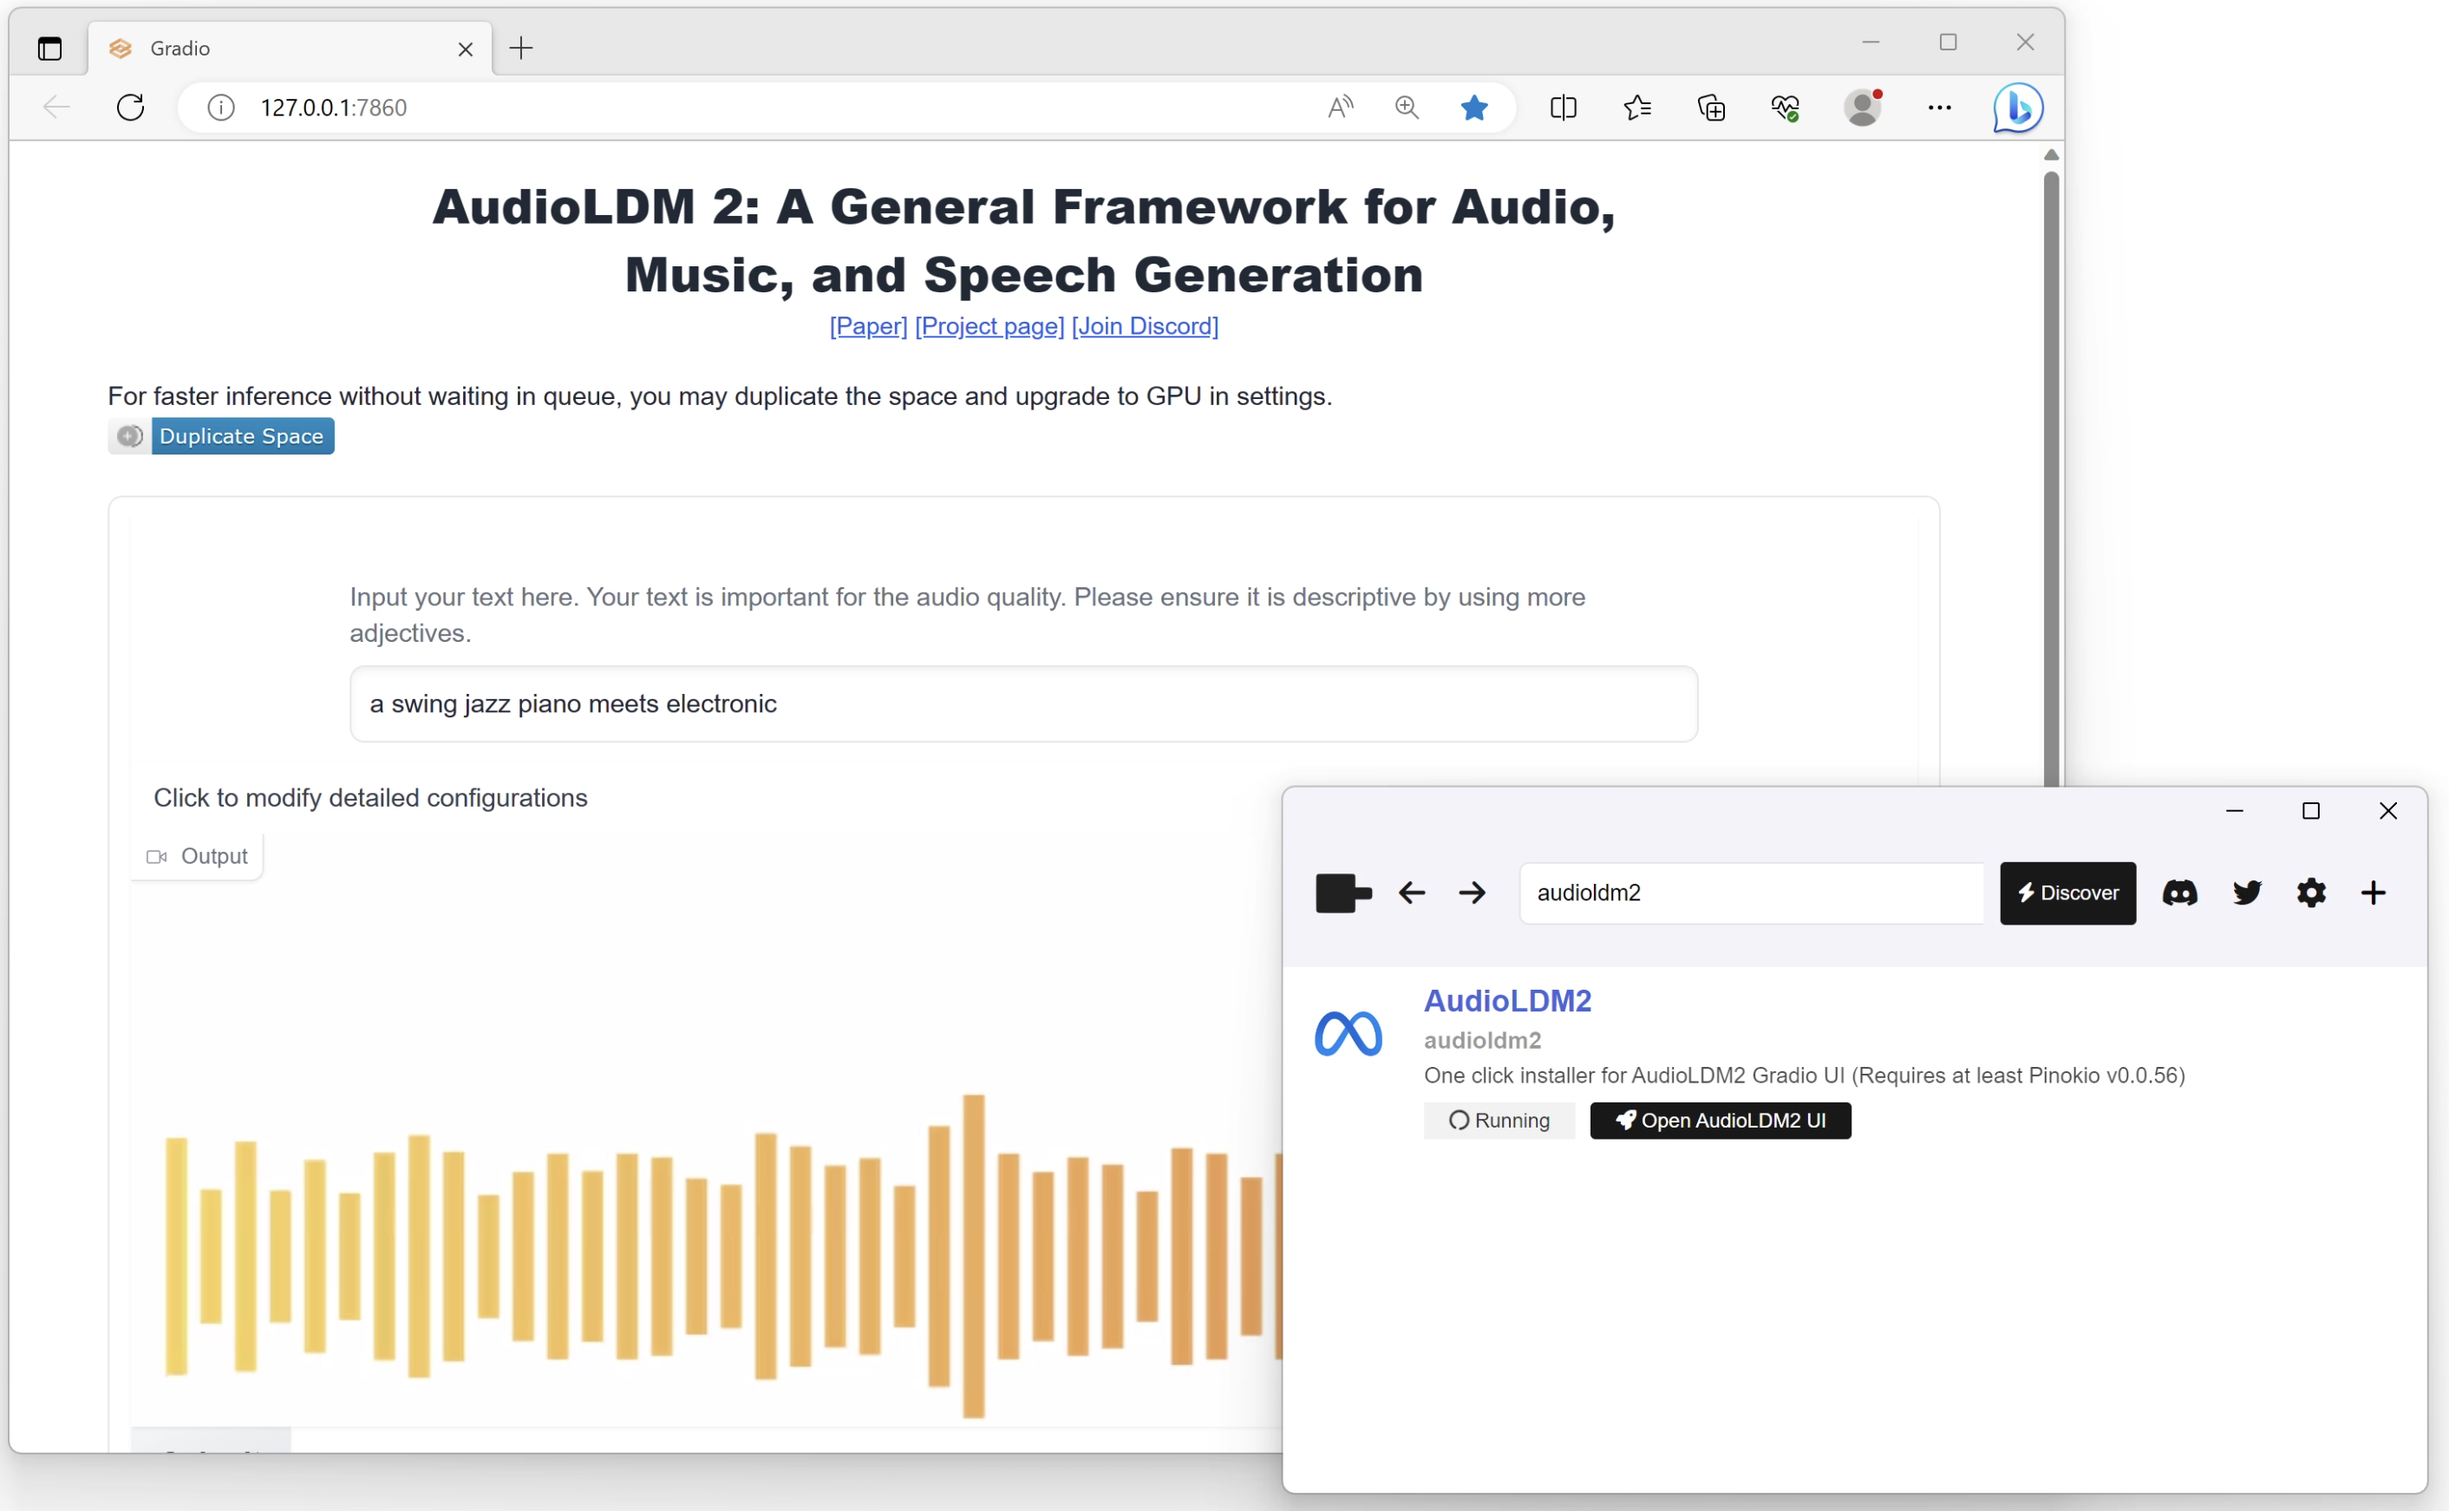
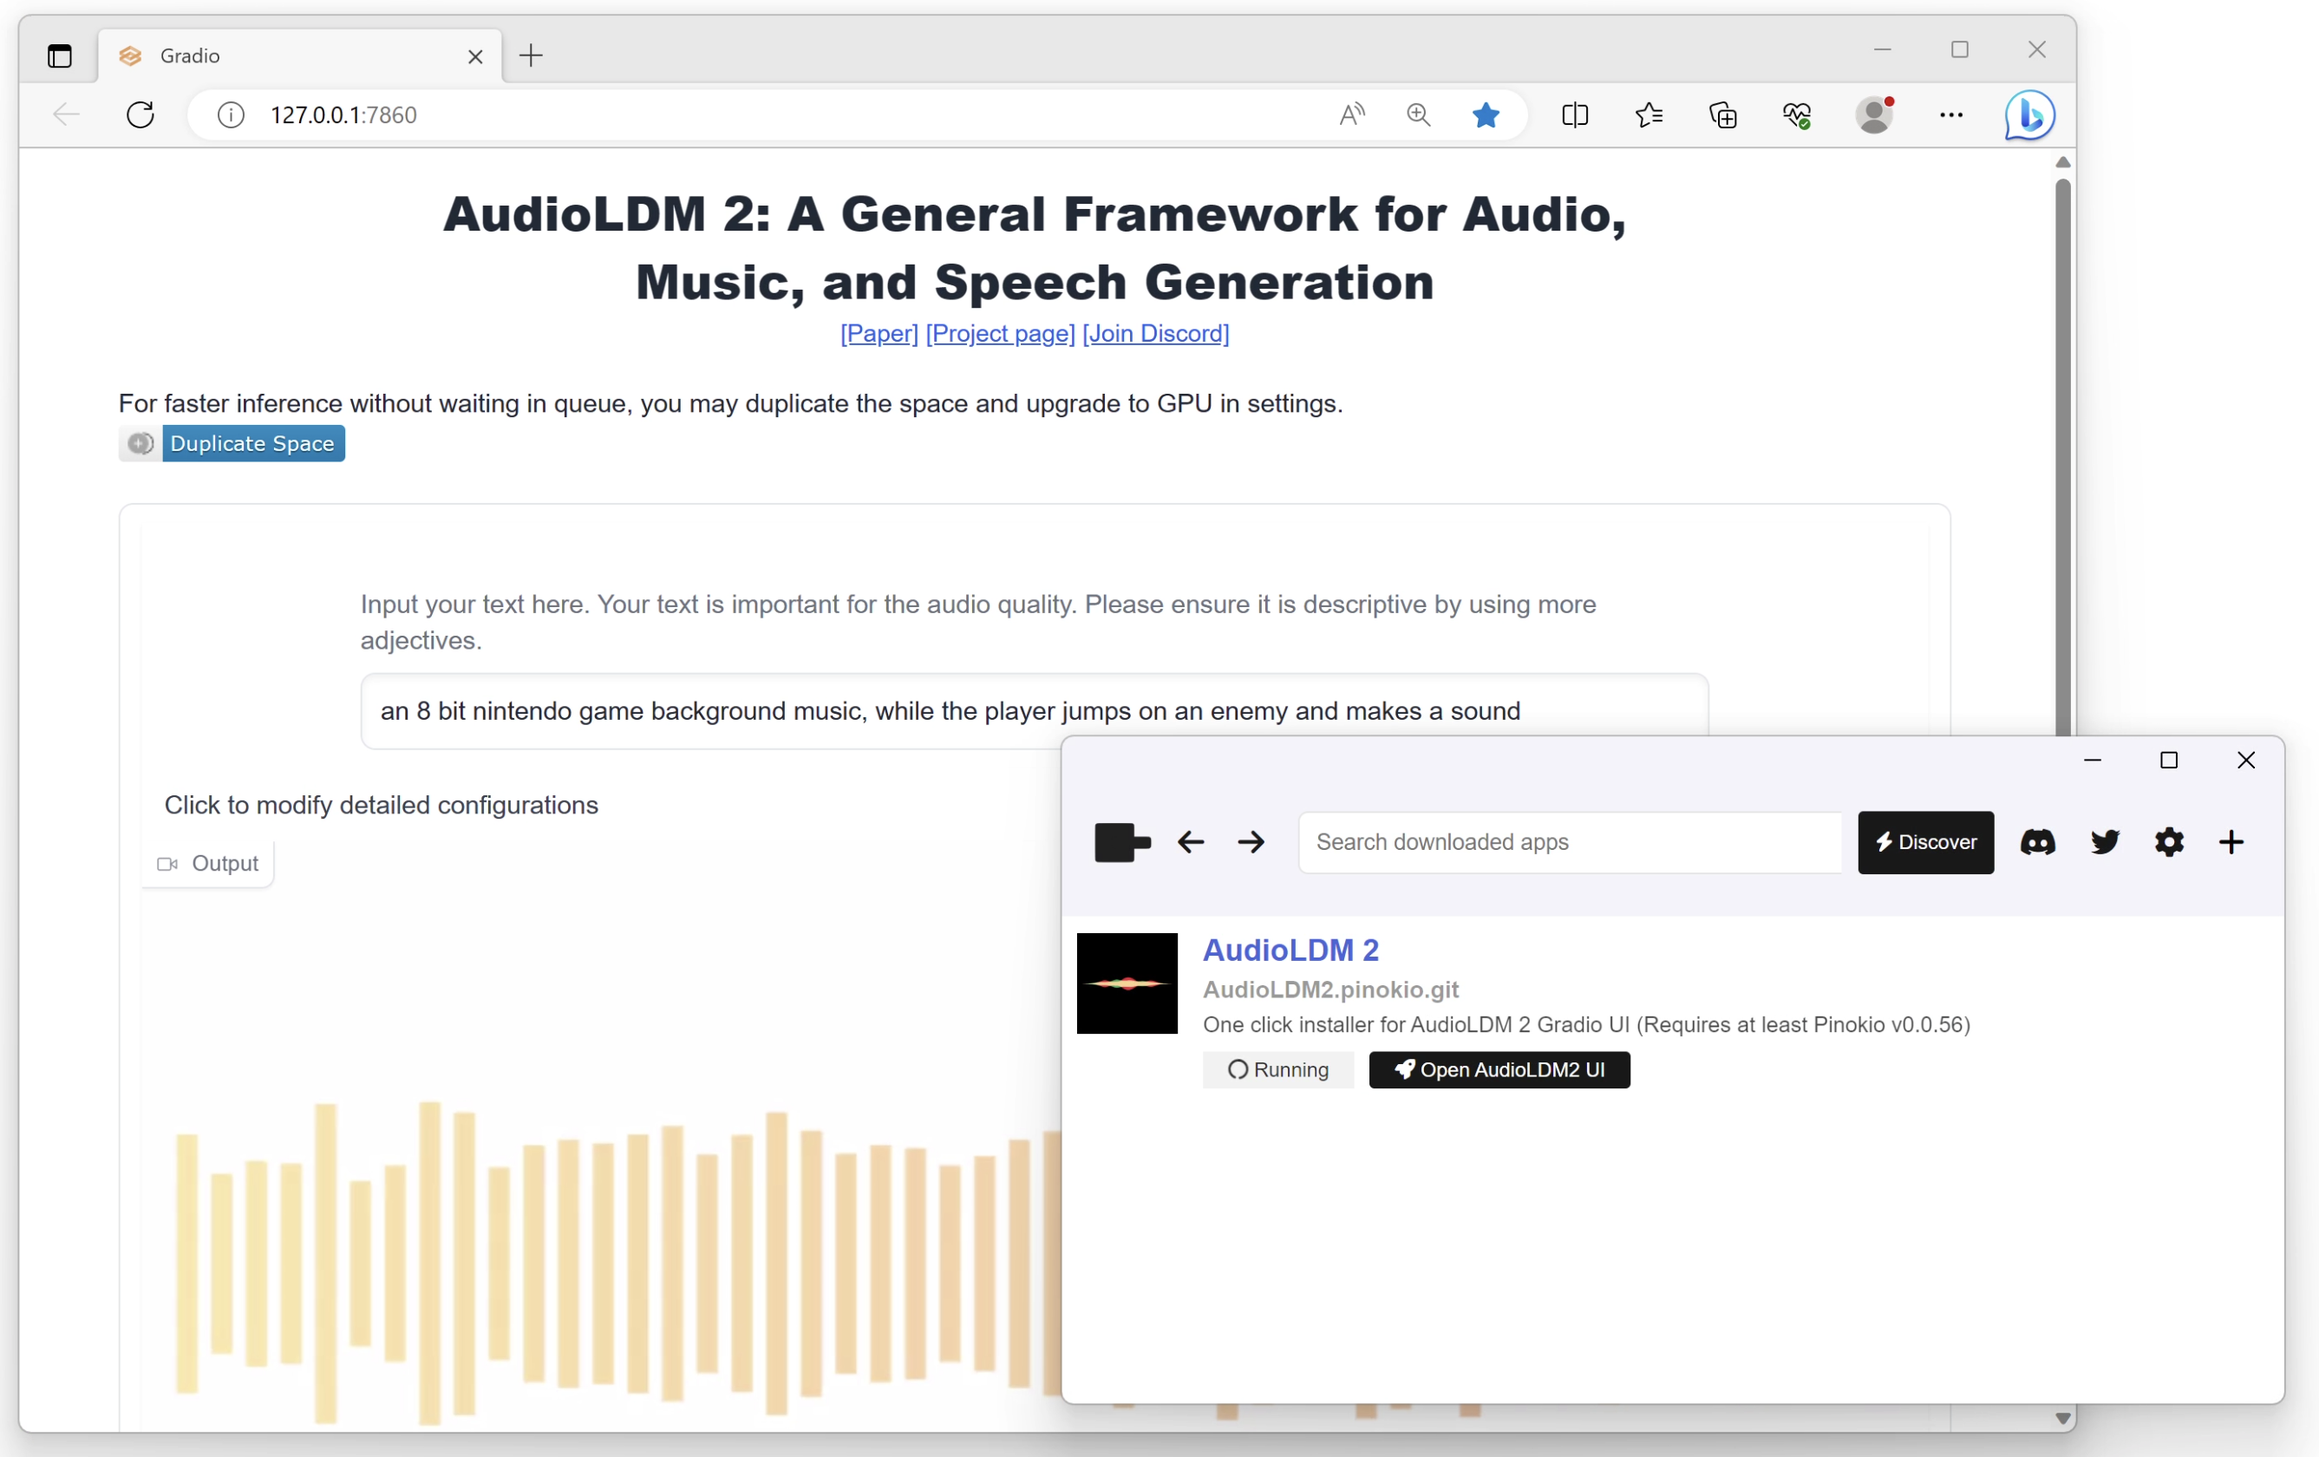
update

diff --git a/pinokio.js b/pinokio.js
@@ -6,7 +6,7 @@ const exists = (filepath) => {
 }
 module.exports = {
   title: "AudioLDM 2",
-  description: "One click installer for AudioLDM 2 Gradio UI (Requires at least Pinokio v0.0.56)",
+  description: "[Nvidia only] One click installer for AudioLDM 2 Gradio UI",
   icon: "icon.png",
   menu: async (kernel) => {
     let installed = await exists(path.resolve(__dirname, "audioldm2", "env"))
